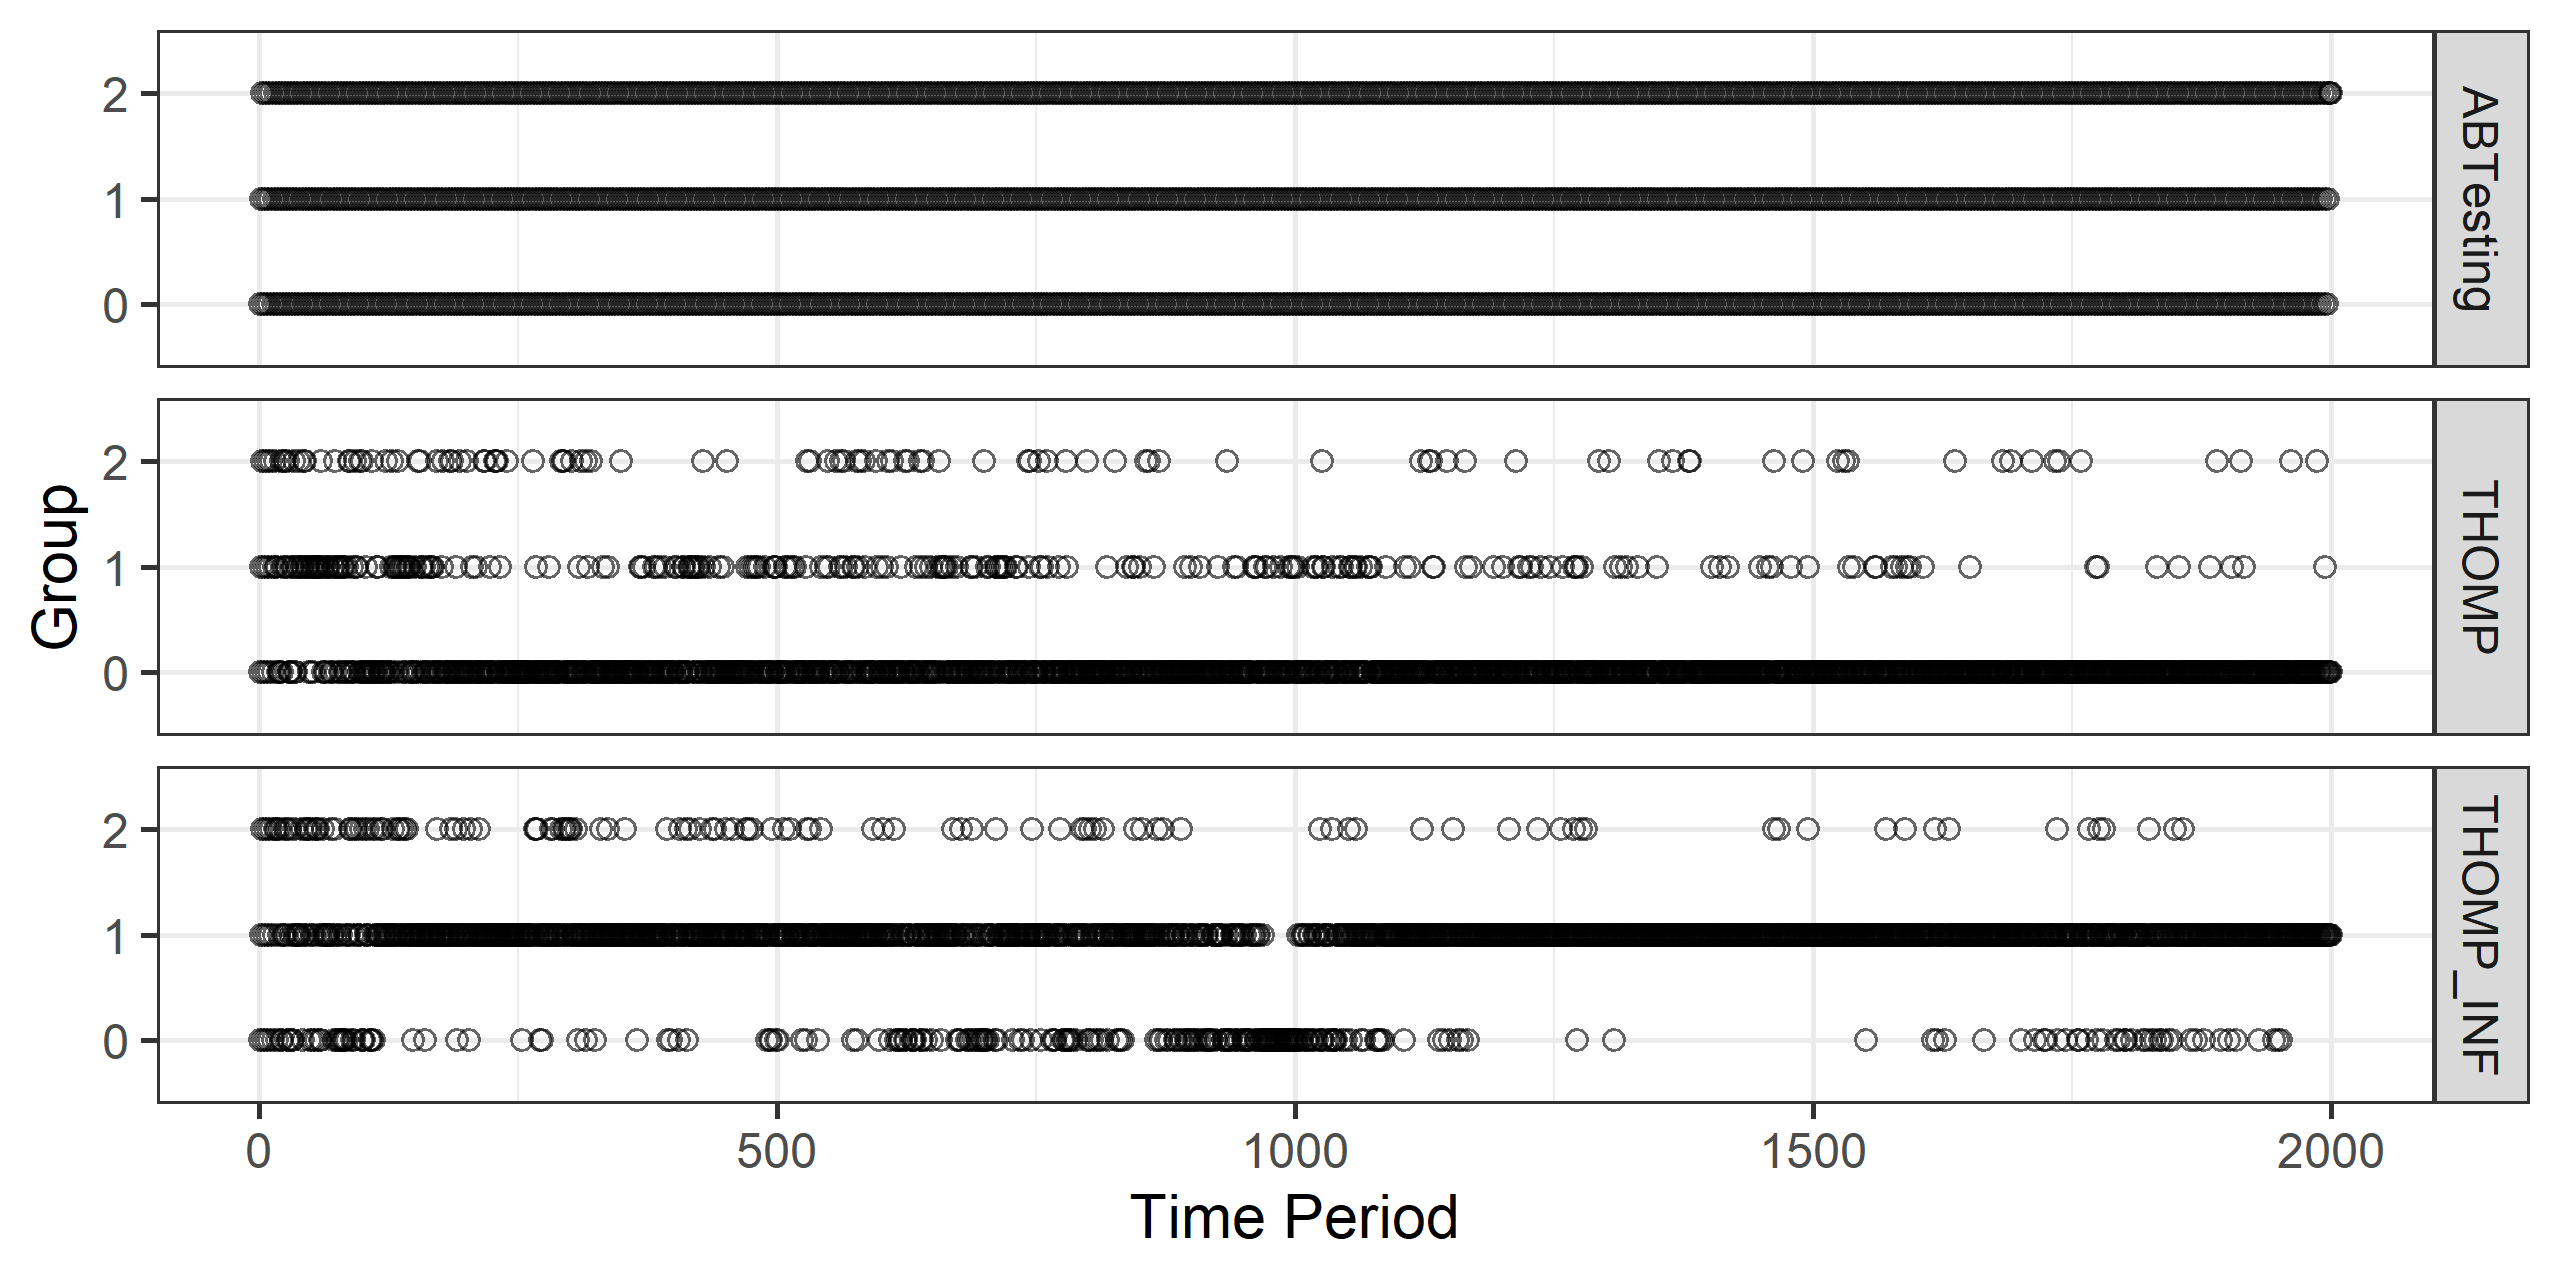
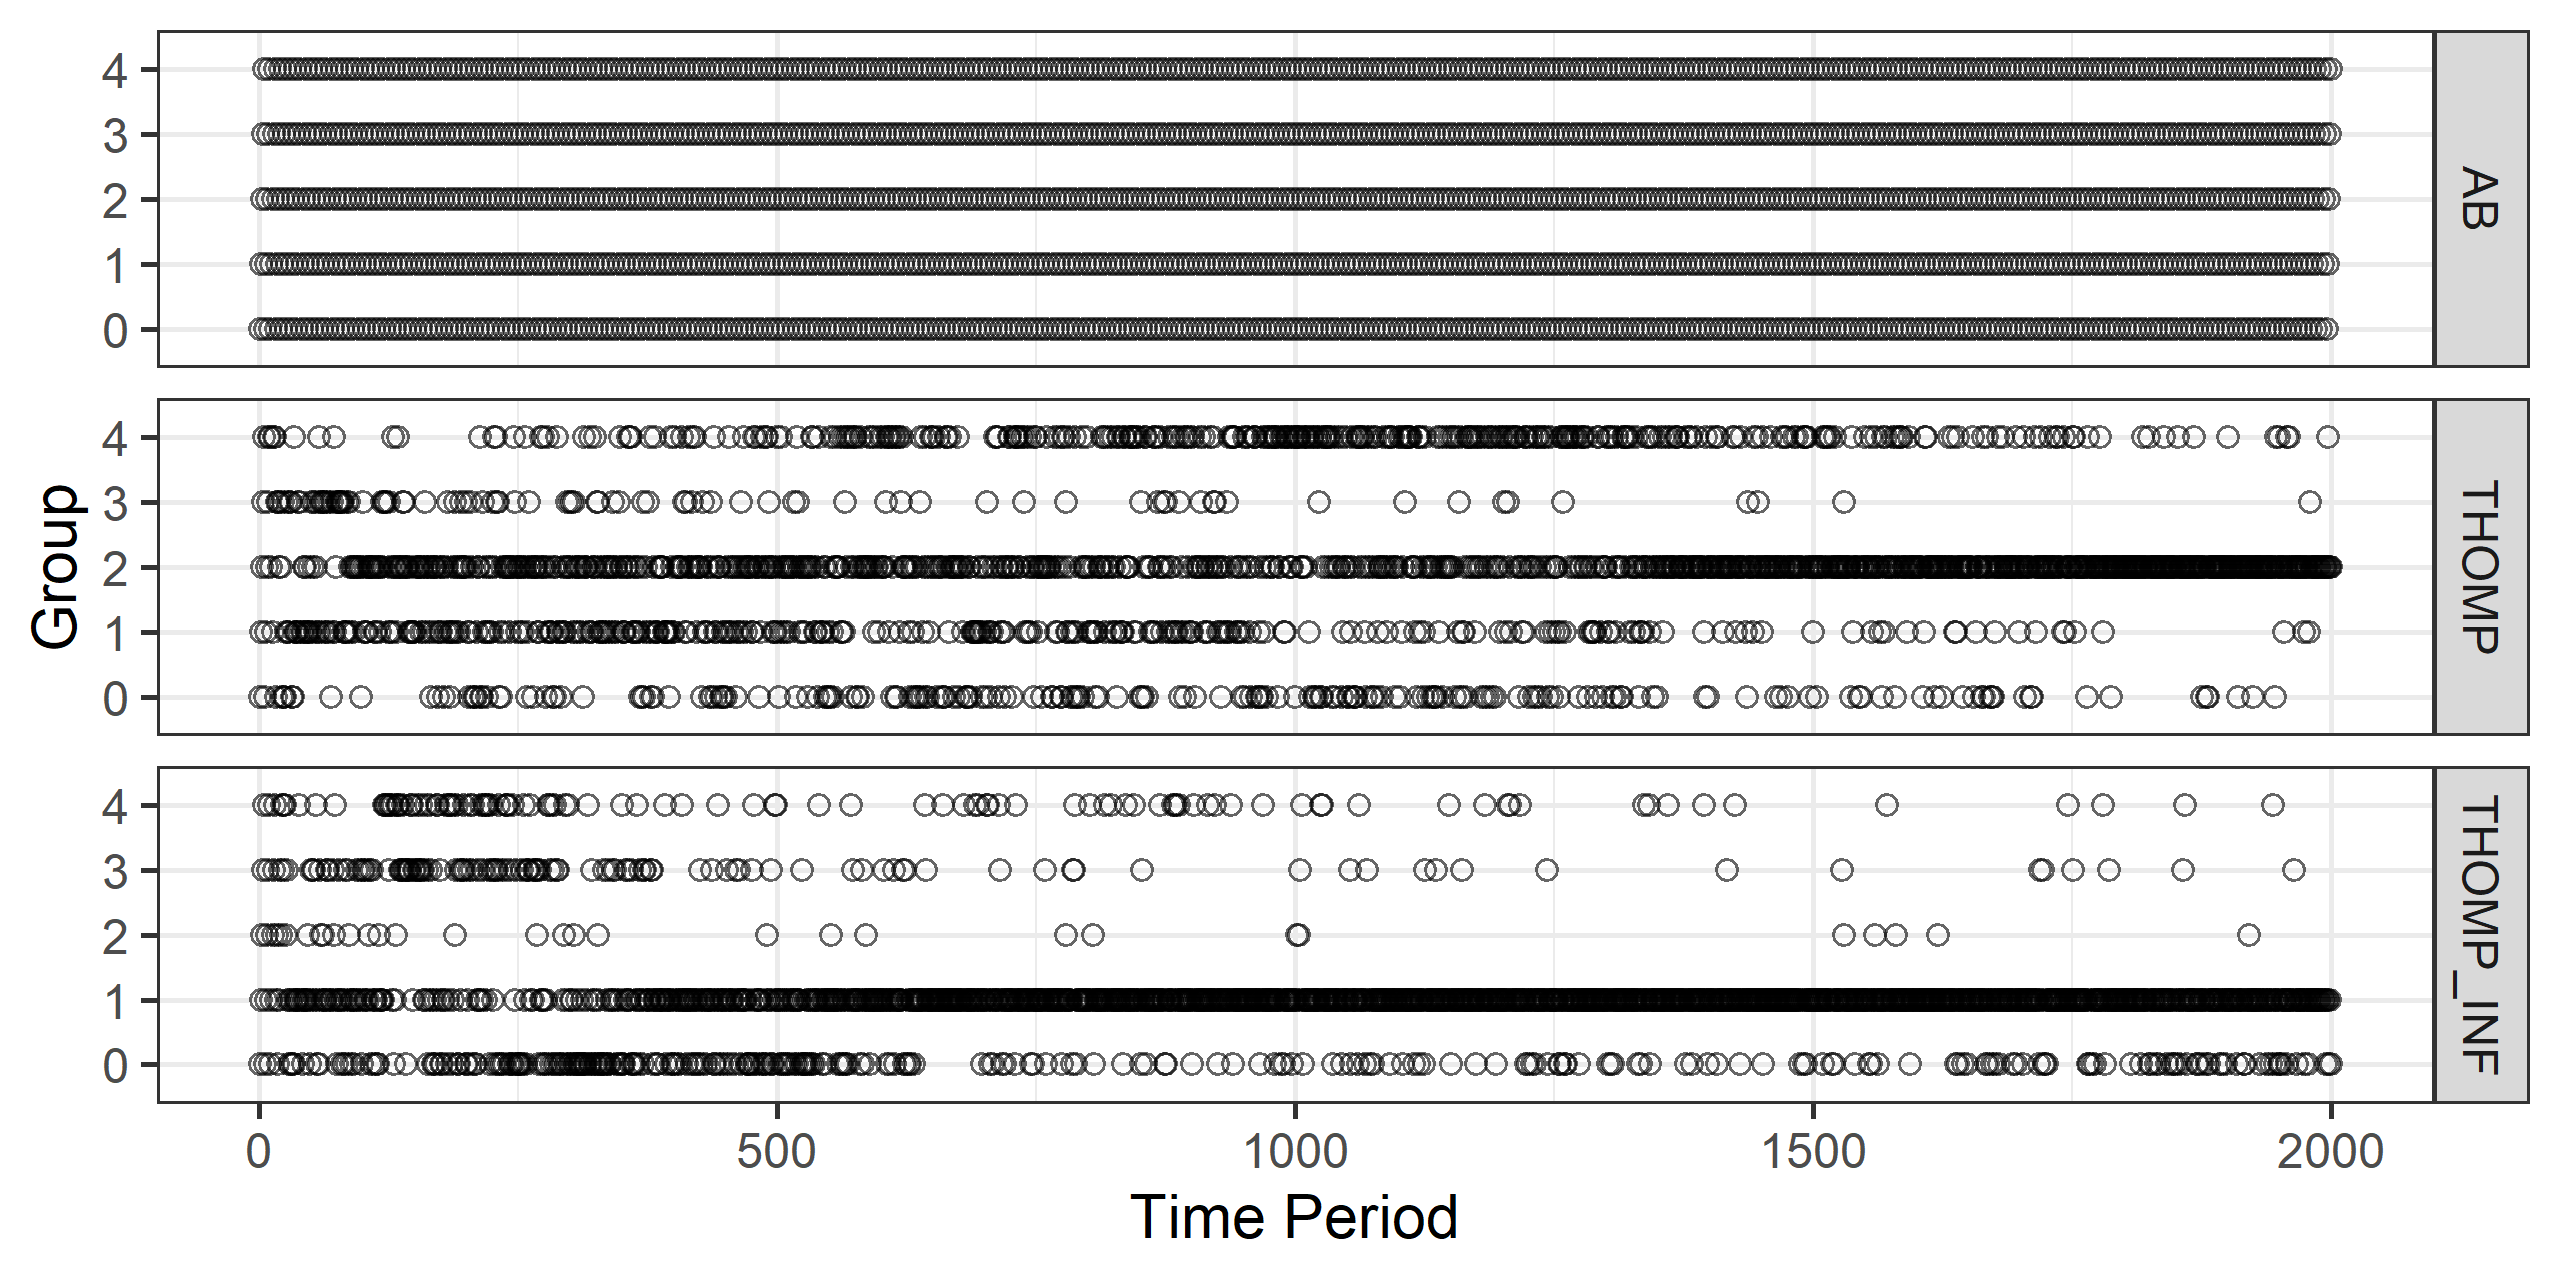
changing xi

diff --git a/run_sim.py b/run_sim.py
@@ -4,13 +4,13 @@ import time
 import pandas as pd
 
 
-def run_sim(file_path, true_means, true_vars=None, dist_type='Normal', xi=0.3):
+def run_sim(file_path, true_means, true_vars=None, dist_type='Normal', xi=0.05):
     start_time = time.time()
     alg_list=['ab_bern', 'thomp_bern', 'thomp_athey_bern', 'thomp_inf_bern']
 
     estimator_list=['aipw', 'eval_aipw', 'ipw']
 
-    sim = BanditSimulation(num_ite=20, arm_means=true_means,
+    sim = BanditSimulation(num_ite=62, arm_means=true_means,
                            arm_vars=true_vars,
                            eps_inf=0.2,
                            horizon=5000,
@@ -52,7 +52,7 @@ if __name__ == '__main__':
     if bernoulli_analysis:
         true_means = np.array([0.157, 0.178, 0.199, 0.146, 0.129])
         true_vars = true_means*(1-true_means)
-        run_sim('analysis/output/non_agg_bern_20_5000.csv', true_means, true_vars=true_vars, dist_type='Bernoulli')
+        run_sim('analysis/output/non_agg_bern_62_5000.csv', true_means, true_vars=true_vars, dist_type='Bernoulli')
     if lsn:
         true_means = [1, 1.1, 1.2]
         true_vars = [1/3, 1/3, 1/3]
